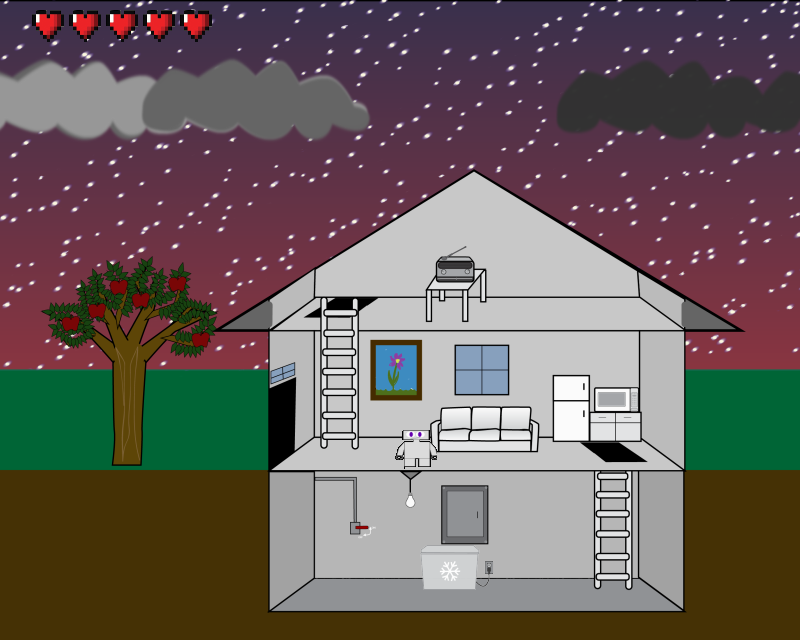
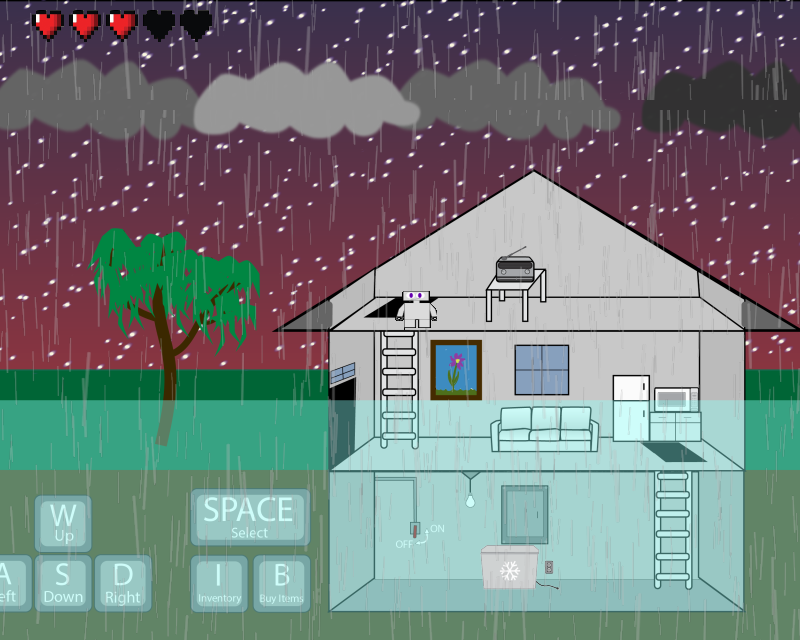
FIXED EVERYTHING.

diff --git a/Main.py b/Main.py
@@ -350,12 +350,12 @@ def main():
             # Plays the radio warning
             if not radio_sounds.get_busy() and not warning_over and not flood_over:
                 warning_wait_then = pygame.time.get_ticks()
-                # radio_sounds.play(phase1_warning)
+                radio_sounds.play(phase1_warning)
 
             warning_wait_now = pygame.time.get_ticks()
 
             # Animates rain drops and clouds; also waits for audio to finish
-            if warning_wait_now - warning_wait_then >= 00 and not flood_over:
+            if warning_wait_now - warning_wait_then >= 200 and not flood_over:
                 warning_over = True
                 if cloud0.rect.x < 800:
                     cloud0.rect.x += 5
@@ -449,8 +449,6 @@ def main():
                     myfont1 = pygame.font.SysFont(None, 32)
                     text1 = myfont1.render("YOU SURVIVED THE FLOOD!", 1, (100, 54, 149))
                     text2 = myfont1.render("Thanks for playing the R.A.N.D.I. demo!", 1, (100, 54, 149))
-                    # screen.blit(text2, (WIN_WIDTH / 2 - 50, WIN_HEIGHT / 2))
-                    # screen.blit(text1, (WIN_WIDTH / 2 - 50, WIN_HEIGHT / 2 - 100))
                     pygame.display.flip()
                     pygame.time.wait(5000)
                     pygame.quit()
@@ -478,9 +476,7 @@ def main():
 def HeartDisplay(playerHP):
     # Health Display If Chain
     # heart 1
-    #gameover = Sprite("images/gameover.png", 0, 0, BACKGROUND_WIDTH, BACKGROUND_HEIGHT)
     if (playerHP == 0):
-        #screen.fill((0, 0, 0))
         myfont = pygame.font.SysFont(None, 16)
         text = myfont.render("Version 0.1.0", 1, (255,255,255))
         screen.blit(pygame.image.load("images/gameover.png"), (0,0))
